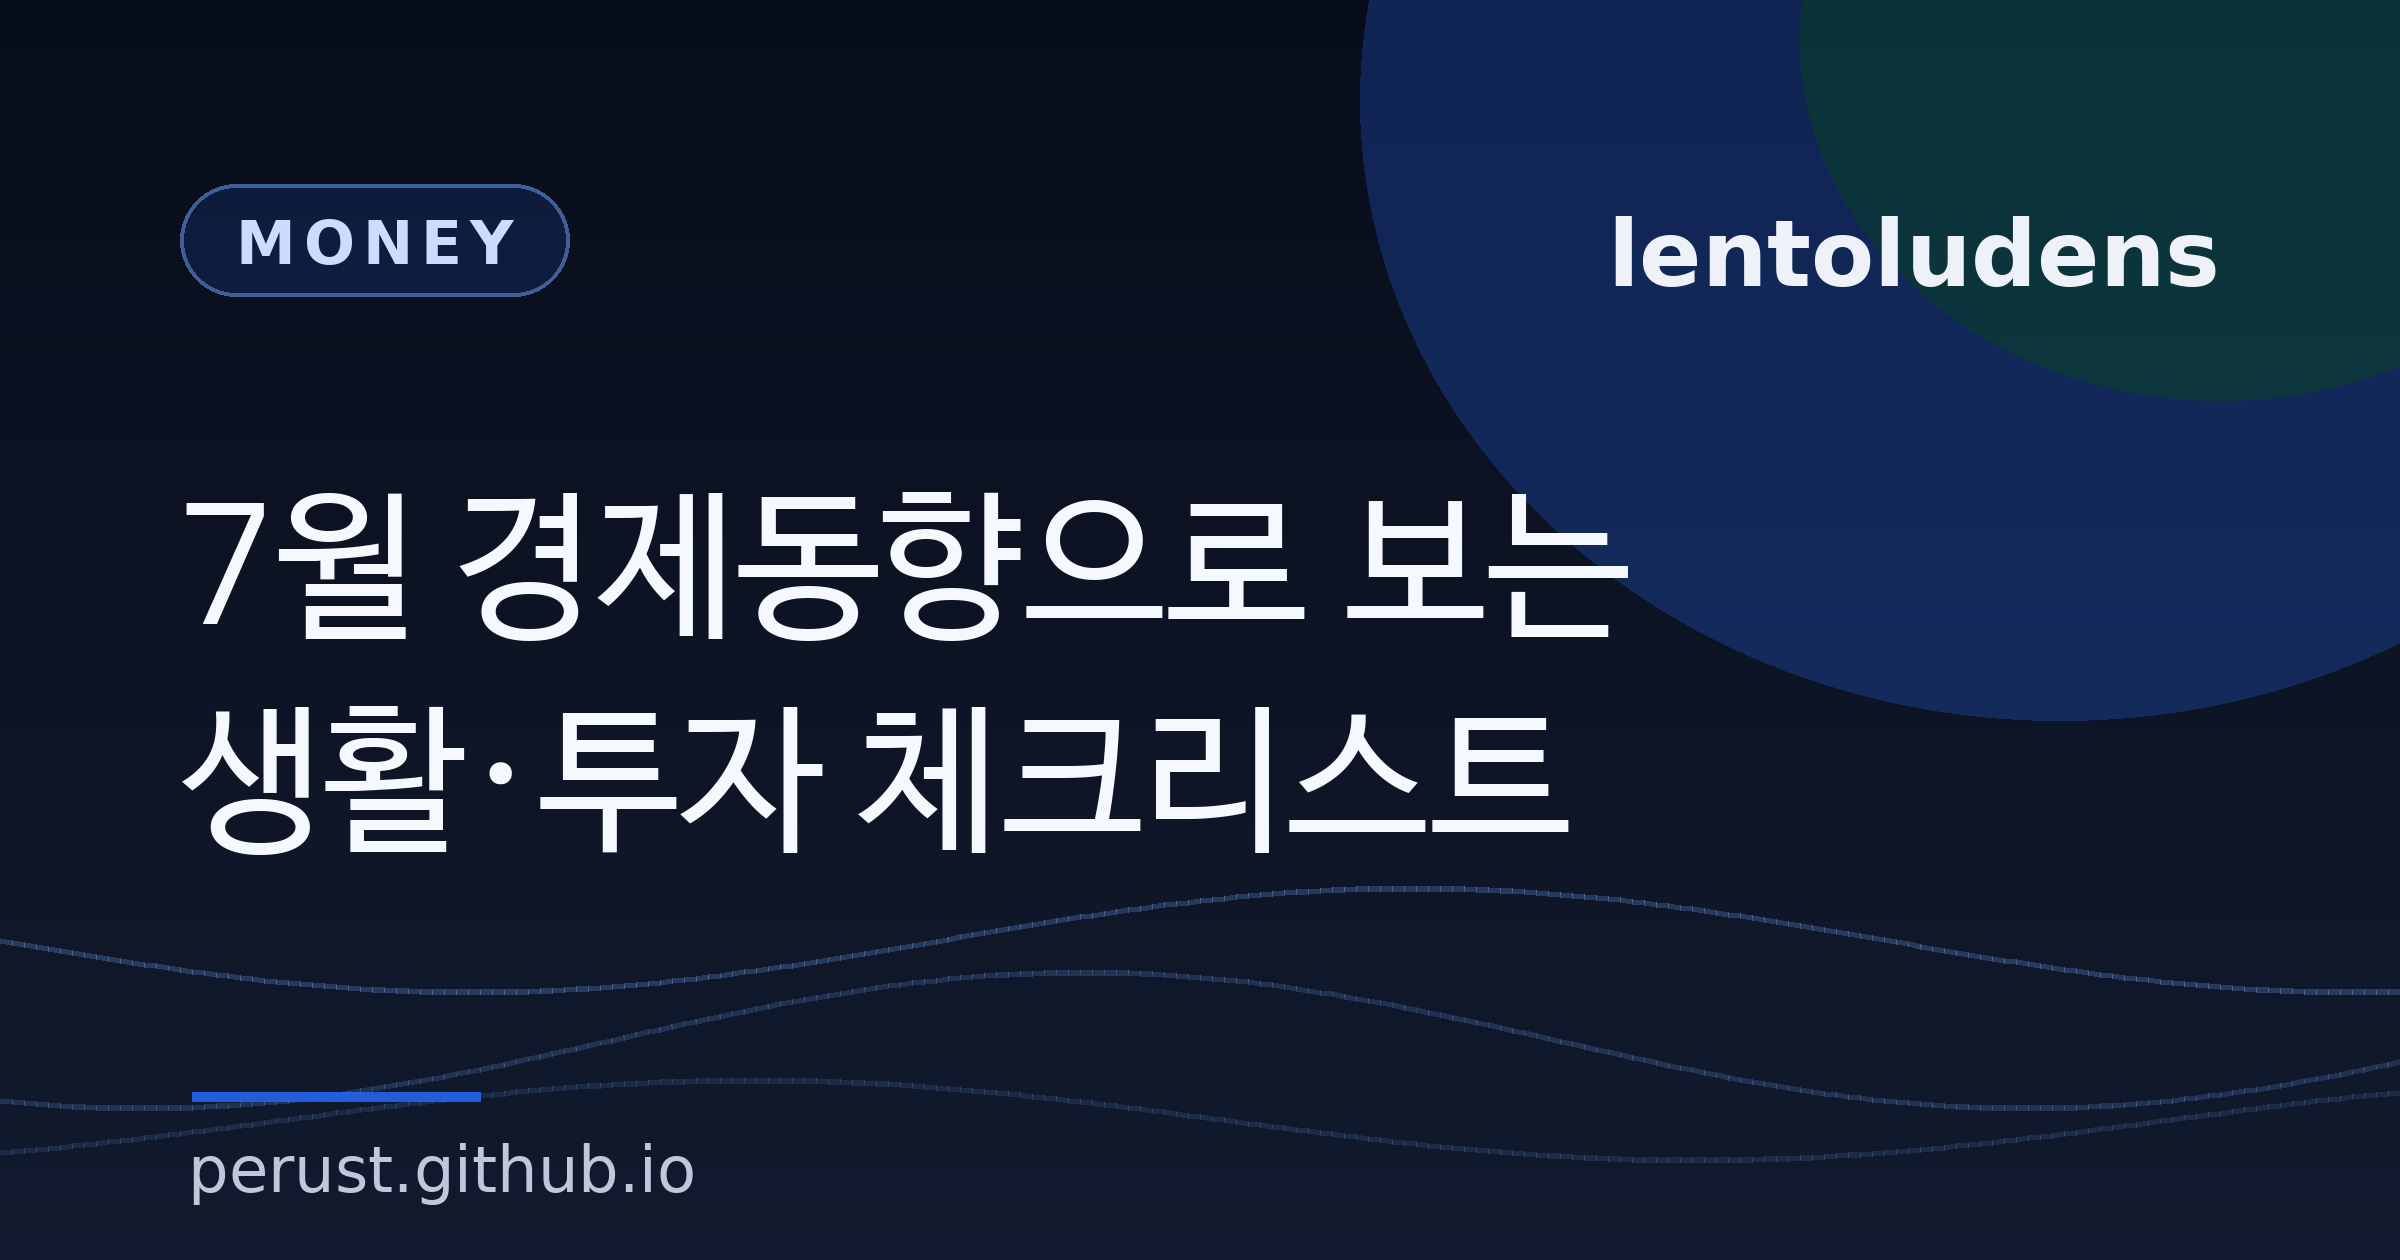
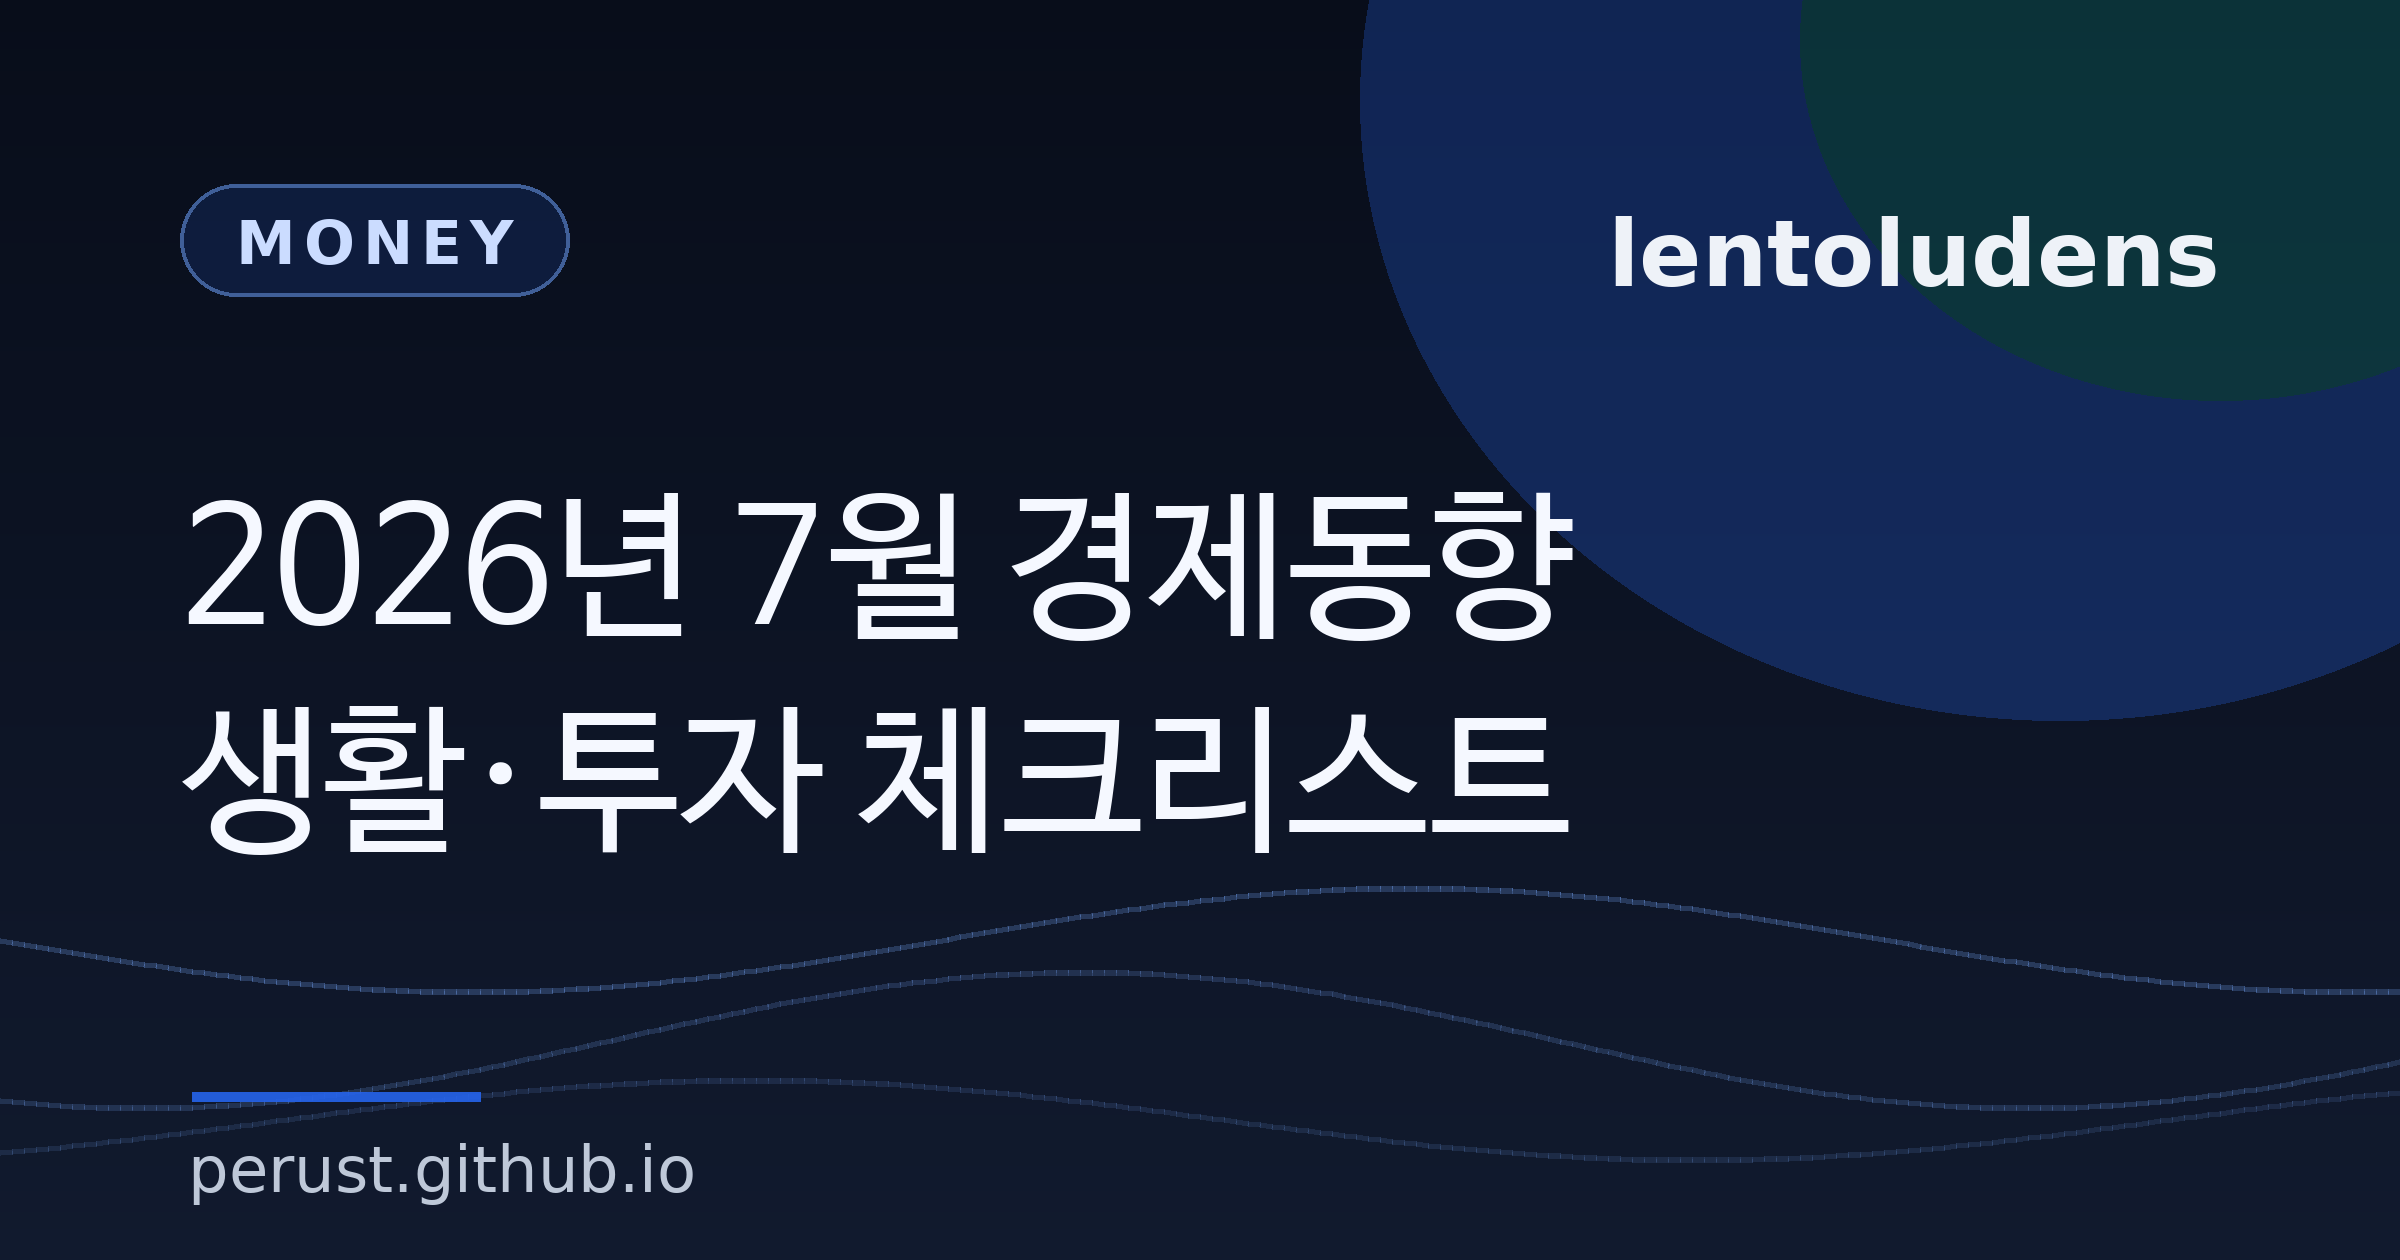
Refine July economic posts after review

Changed region(s): [[0.0625, 0.3714, 0.6875, 0.5262]]

diff --git a/src/content/blog/2026-07-20-economic-trends-household-investor-checklist.md b/src/content/blog/2026-07-20-economic-trends-household-investor-checklist.md
@@ -1,6 +1,6 @@
 ---
-title: "7월 경제동향으로 보는 생활·투자 체크리스트"
-description: "2026년 7월 최근경제동향을 생활비, 고용, 환율, 부동산, 투자 노출 관점으로 다시 정리했습니다. 숫자보다 가계와 투자자에게 직접 닿는 변수를 봅니다."
+title: "2026년 7월 경제동향 생활·투자 체크리스트"
+description: "2026년 7월 최근경제동향을 가계 행동으로 바꿔 정리했습니다. 생활비, 대출, 주거, 환율, 투자 노출을 한 번에 점검합니다."
 date: "2026-07-20T17:15:00+09:00"
 category: "Money"
 tags: ["생활비", "투자관점", "물가", "환율", "부동산", "고용", "경제체크", "한국경제"]
@@ -37,9 +37,9 @@ tags: ["생활비", "투자관점", "물가", "환율", "부동산", "고용", "
 
 6월 소비자물가는 전년동월비 3.2% 상승했습니다. 5월 3.1%에서 조금 더 높아졌습니다. 숫자만 보면 0.1%p 차이지만, 생활물가지수가 3.4% 올랐다는 점이 더 중요합니다.
 
-생활물가지수는 두부, 라면, 돼지고기처럼 자주 사고 지출 비중이 큰 품목을 중심으로 봅니다. 즉 headline 물가보다 실제 장바구니 체감과 더 가깝습니다. 6월에는 농산물이 상승 전환했고, 축산물 상승폭도 커졌습니다. 석유류도 전년동월비 24.7% 상승했습니다.
+생활물가지수는 두부, 라면, 돼지고기처럼 자주 사고 지출 비중이 큰 품목을 중심으로 봅니다. 그래서 이번 달 가계부에서는 전체 물가보다 장보기와 이동 비용을 먼저 보는 편이 실용적입니다. 6월에는 농산물이 다시 올랐고, 축산물과 석유류 부담도 남았습니다.
 
-국제유가는 6월 평균 기준으로 5월보다 내려왔지만 국내 가격은 높은 수준입니다. 휘발유 평균가격은 5월 2,011원에서 6월 2,005원, 경유는 2,006원에서 1,999원으로 내려왔습니다. 하락은 맞지만 “부담이 사라졌다”는 수준은 아닙니다.
+실행 순서는 간단합니다. 첫째, 식비와 주유비를 한 달 총액이 아니라 주간 한도로 나눕니다. 둘째, 배달·외식·편의점 결제를 따로 묶어 봅니다. 셋째, 여름 전기요금처럼 다음 달 청구서에 늦게 반영되는 비용을 미리 예산에 넣습니다.
 
 <ul class="issue-list">
   <li class="issue-card">
@@ -50,11 +50,9 @@ tags: ["생활비", "투자관점", "물가", "환율", "부동산", "고용", "
 
 ## 2. 고용: 전체보다 업종과 연령 차이
 
-6월 취업자는 전년동월비 6.3만명 늘었습니다. 5월에 4.0만명 감소했던 것과 비교하면 플러스 전환입니다. 하지만 고용 내용을 보면 안심하기 어렵습니다.
+고용지표는 전체 숫자보다 내 업종의 방향이 더 중요합니다. 6월 취업자는 증가로 돌아섰지만, 서비스업 증가와 제조·건설업 감소가 함께 나타났습니다. 청년층 취업자 감소도 이어졌습니다.
 
-서비스업 취업자는 30.7만명 증가했습니다. 반대로 제조업은 9.7만명, 건설업은 6.7만명 감소했습니다. 상용직은 1.6만명 증가에 그쳤고, 임시직과 일용직은 각각 5.1만명, 4.5만명 줄었습니다.
-
-연령별로는 15–29세 취업자가 19.7만명 감소했습니다. 60세 이상은 21.1만명 증가했습니다. 전체 취업자 수가 늘어도 청년층과 제조·건설업 종사자는 체감이 다를 수 있습니다.
+직장인에게는 평균 실업률보다 회사의 수주, 프로젝트 파이프라인, 채용 공고 변화가 더 직접적인 신호입니다. 구직자라면 산업 전체의 회복 문장보다 실제 채용이 늘어나는 직무와 지역을 먼저 좁히는 편이 낫습니다.
 
 <ul class="issue-list">
   <li class="issue-card">
@@ -65,11 +63,9 @@ tags: ["생활비", "투자관점", "물가", "환율", "부동산", "고용", "
 
 ## 3. 환율: 해외자산과 수입물가의 변수
 
-6월 말 원/달러 환율은 1,549.4원이었습니다. 5월 말 1,507.9원보다 올랐습니다. 원/100엔 환율도 952.0원, 원/위안 환율도 228.2원으로 상승했습니다.
+6월 말 원/달러 환율은 1,549.4원으로 올라왔습니다. 이 숫자는 해외주식 평가액뿐 아니라 카드 해외결제, 여행 경비, 달러 구독료, 수입물가까지 연결됩니다.
 
-환율 상승은 수출기업에는 도움이 될 수 있습니다. 원화로 환산한 매출이 커지고, 수출 가격 경쟁력에도 영향을 줍니다. 하지만 가계에는 다르게 작용합니다. 해외여행, 유학비, 해외직구, 달러 결제 구독, 수입 원자재 가격이 모두 부담이 됩니다.
-
-해외주식 투자자에게는 두 가지 효과가 동시에 생깁니다. 달러 자산을 이미 보유하고 있다면 원화 평가액이 올라갈 수 있습니다. 반대로 새로 환전해 투자하려는 사람에게는 진입 환율이 높아집니다.
+이미 달러 자산을 가진 사람은 원화 평가액이 커질 수 있습니다. 반대로 새로 환전해 투자하거나 해외 결제가 많은 사람은 같은 소비와 투자에도 더 많은 원화가 필요합니다. 이번 달에는 수익률표와 함께 실제 환전·결제 예정액을 따로 적어두는 것이 좋습니다.
 
 <ul class="issue-list">
   <li class="issue-card">
@@ -80,11 +76,9 @@ tags: ["생활비", "투자관점", "물가", "환율", "부동산", "고용", "
 
 ## 4. 부동산: 전국보다 수도권 압력
 
-5월 전국 주택 매매가격은 전월비 0.21% 상승했습니다. 숫자만 보면 완만하지만, 지역별 차이가 큽니다. 수도권은 0.46%, 서울은 0.90% 올랐습니다. 지방은 0.02% 하락했습니다.
+주거비는 평균보다 내 생활권이 더 중요합니다. 5월 자료에서 전국보다 수도권, 그중에서도 서울의 매매·전세 상승 압력이 더 컸습니다. 지방 평균은 약했지만 수도권 전세 갱신을 앞둔 가구에는 체감이 전혀 다를 수 있습니다.
 
-전세가격도 비슷합니다. 전국 전세가격은 0.35% 상승, 수도권은 0.61%, 서울은 0.91% 상승했습니다. 일부 지역은 더 강했습니다. 자료에는 송파구 1.62%, 성동구 1.44%, 노원구 1.40%, 광명 1.88%, 동탄 1.50% 상승이 제시됐습니다.
-
-거래량은 전월보다 줄었습니다. 5월 전국 주택 매매거래량은 6만6,490건으로 전월보다 4.7% 감소했습니다. 가격 상승과 거래량 감소가 같이 나오면, 실수요자는 추격 매수보다 대출 조건과 전세 갱신 비용을 먼저 계산해야 합니다.
+전세나 매수를 고민한다면 가격 전망보다 현금흐름표가 먼저입니다. 보증금 증액분, 대출 가능액, 금리 재산정일, 이사비, 월세 전환 비용을 한 번에 놓고 비교해야 합니다. 가격은 오르는데 거래량이 줄어드는 구간에서는 조급한 결정보다 자금 조건 확인이 우선입니다.
 
 <ul class="issue-list">
   <li class="issue-card">
@@ -99,7 +93,7 @@ tags: ["생활비", "투자관점", "물가", "환율", "부동산", "고용", "
 
 하지만 투자에서는 수출 호조와 내수 부담을 분리해서 봐야 합니다. 반도체·컴퓨터 수출이 좋다고 해서 모든 업종이 좋아지는 것은 아닙니다. 소비재, 유통, 건설, 내수 서비스업은 물가, 금리, 주거비, 고용에 더 민감합니다.
 
-코스피는 6월 말 기준 5월 말과 거의 같은 수준이었습니다. 반도체 경기 호황과 미·이란 종전 기대가 상승 요인이었지만 외국인 매도세가 부담으로 작용했습니다. 코스닥은 같은 기간 14.76% 하락했습니다. 지수 안에서도 차별화가 컸습니다.
+재정경제부 첨부 PDF의 금융·외환시장 표 기준 코스피는 6월 말 5월 말과 거의 같은 수준이었지만, 코스닥은 같은 기간 14.76% 하락했습니다. 같은 반도체·AI 기대가 있어도 대형주와 성장주, 수출주와 내수주가 같은 방향으로 움직이지 않았다는 뜻입니다.
 
 <ul class="issue-list">
   <li class="issue-card">
@@ -115,7 +109,7 @@ tags: ["생활비", "투자관점", "물가", "환율", "부동산", "고용", "
   <li class="issue-card">
     <span class="issue-badge">3순위</span>
     <h3>내수 업종의 체감 경기</h3>
-    <p class="issue-summary">생활물가, 주거비, 청년 고용이 약하면 내수 소비 여력은 제한됩니다. 유통·외식·레저·건설 관련 투자는 headline 성장률보다 가계 현금흐름을 같이 봐야 합니다.</p>
+    <p class="issue-summary">생활물가, 주거비, 청년 고용이 약하면 내수 소비 여력은 제한됩니다. 유통·외식·레저·건설 관련 투자는 발표 성장률보다 가계 현금흐름을 같이 봐야 합니다.</p>
   </li>
 </ul>
 
@@ -135,7 +129,7 @@ tags: ["생활비", "투자관점", "물가", "환율", "부동산", "고용", "
   <li><a href="https://www.mofe.go.kr/nw/nes/detailNesDtaView.do?searchBbsId1=MOSFBBS_000000000028&searchNttId1=MOSF_000000000078588&menuNo=4010100" target="_blank" rel="noopener">재정경제부, [보도참고] 2026년 7월 최근 경제동향</a></li>
   <li>재정경제부 첨부 PDF, 「2026년 7월 최근경제동향」, 2026년 7월 15일 공개</li>
   <li><a href="/blog/2026-07-20-july-recent-economic-trends-2026/">lentoludens, 2026년 7월 최근경제동향 정리</a></li>
-  <li><a href="/blog/2026-07-20-semiconductor-leverage-etf-policy-risk/">lentoludens, 삼전·하이닉스 레버리지 급락과 반도체 정책 리스크</a></li>
+  <li><a href="/blog/2026-07-20-semiconductor-leverage-etf-policy-risk/">lentoludens, 삼전·하이닉스 레버리지 ETF 급락과 반도체 정책 리스크</a></li>
 </ul>
 
 ## 마지막으로

diff --git a/src/content/blog/2026-07-20-semiconductor-leverage-etf-policy-risk.md b/src/content/blog/2026-07-20-semiconductor-leverage-etf-policy-risk.md
@@ -1,5 +1,5 @@
 ---
-title: "삼전·하이닉스 레버리지 급락과 반도체 정책 리스크"
+title: "삼전·하이닉스 레버리지 ETF 급락과 반도체 정책 리스크"
 description: "삼성전자·SK하이닉스 단일종목 레버리지 ETF 급락, 호남 반도체 메가프로젝트 노조 반대, 모두의 AI를 함께 보면 반도체·AI 투자의 핵심 리스크가 보입니다."
 date: "2026-07-20T16:45:00+09:00"
 category: "Finance"
@@ -39,7 +39,7 @@ tags: ["반도체", "레버리지ETF", "삼성전자", "SK하이닉스", "모두
 
 이번 이슈의 핵심은 단순한 가격 하락이 아닙니다. 개인 투자자가 대형 반도체주에 대한 강한 방향성을 레버리지 상품으로 한꺼번에 실었고, 주가가 반대로 움직이자 손실과 변동성이 동시에 커졌다는 점입니다.
 
-경향신문 보도에 따르면 2026년 6월 16일부터 7월 15일까지 삼성전자·SK하이닉스 단일종목 레버리지·인버스 16종에는 7조3,364억원이 순유입됐습니다. 개인 투자자는 같은 기간 SK하이닉스 단일종목 레버리지 7종을 4조2,386억원, 삼성전자 단일종목 레버리지 7종을 1조6,119억원 순매수한 것으로 보도됐습니다.
+경향신문 보도에 따르면 2026년 6월 16일부터 7월 15일까지 삼성전자·SK하이닉스 단일종목 레버리지·인버스 16종에는 7조3,364억원이 순유입됐습니다. 같은 보도에서 개인 투자자는 이 가운데 SK하이닉스 단일종목 레버리지 7종을 4조2,386억원, 삼성전자 단일종목 레버리지 7종을 1조6,119억원 순매수한 것으로 집계됐습니다. 앞의 7조3,364억원은 레버리지와 인버스 16종 전체, 뒤의 순매수액은 레버리지 14종만 본 숫자입니다.
 
 이 숫자는 중요한 신호입니다. 반도체 대형주가 국민주처럼 거래되는 상황에서, 레버리지 ETF는 개인의 낙관을 훨씬 높은 변동성으로 바꿉니다. 그래서 손실 문제는 투자자 개인의 선택에만 머물지 않고, 시장 전체 변동성 논쟁으로 번졌습니다.
 
